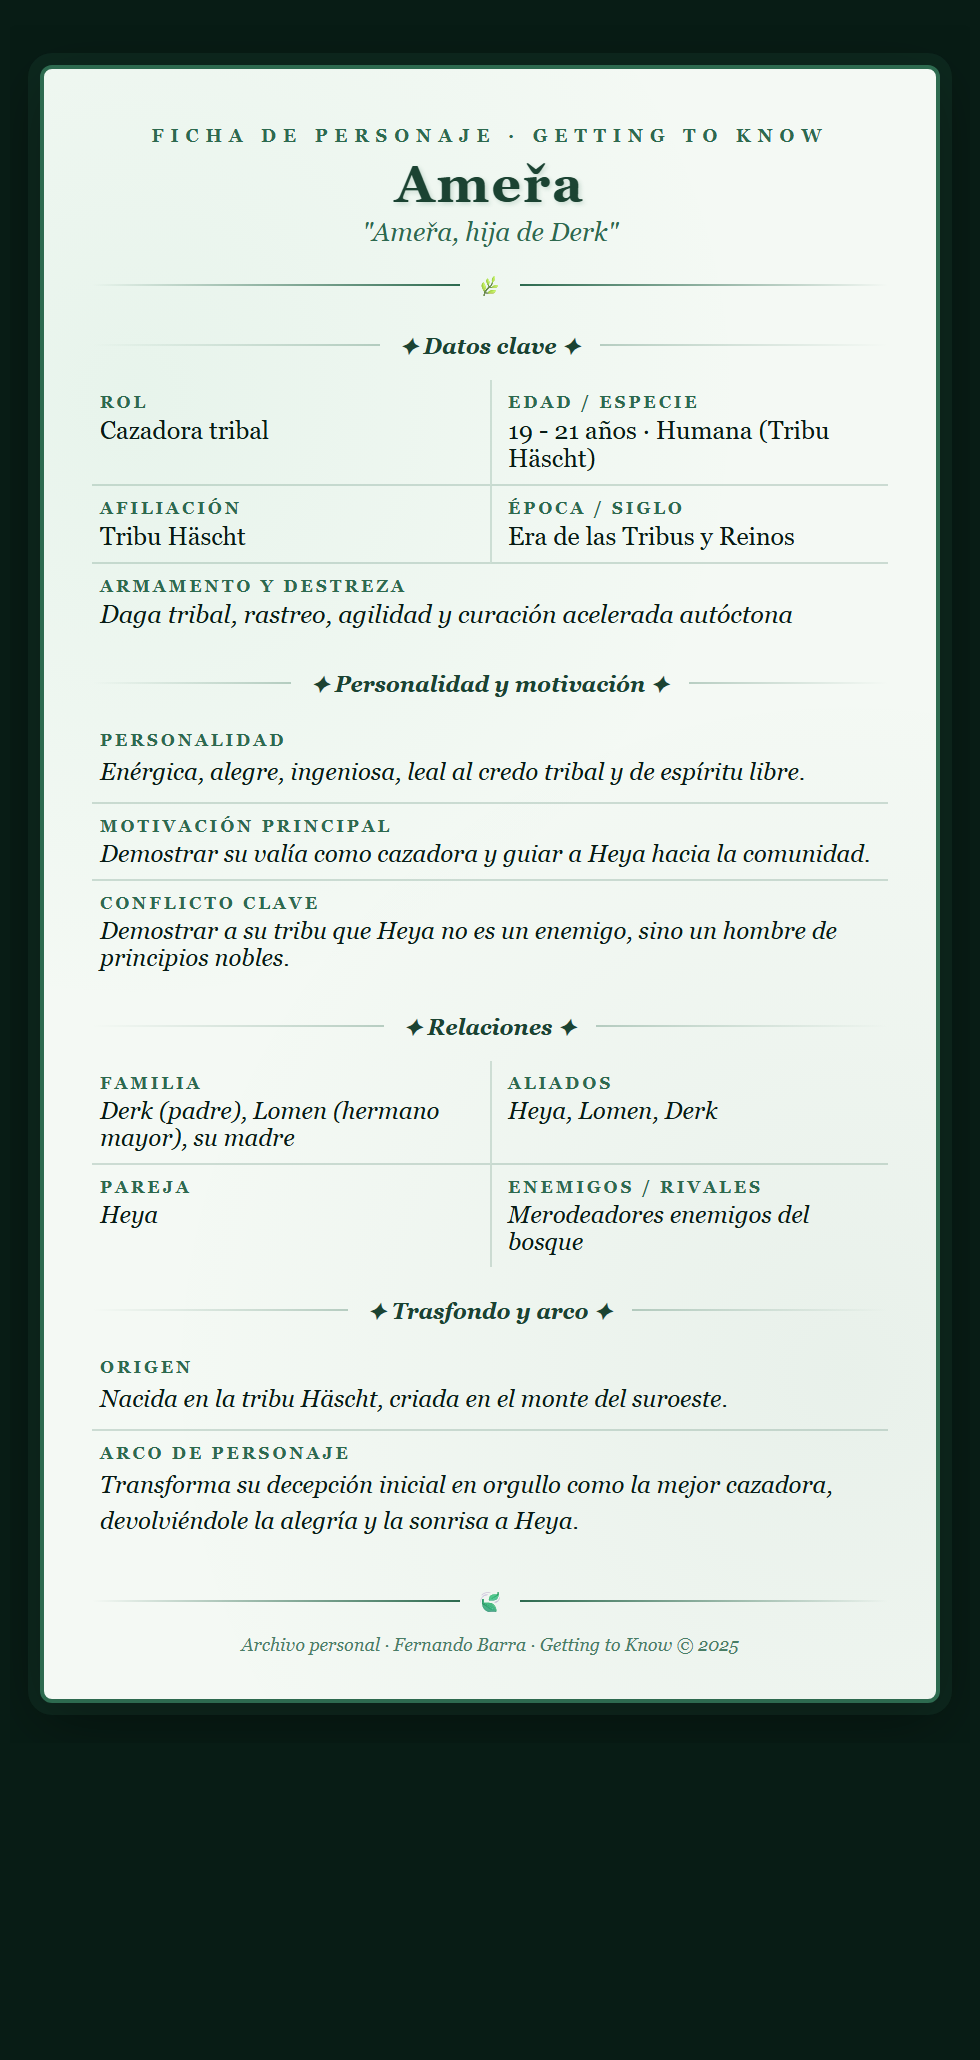
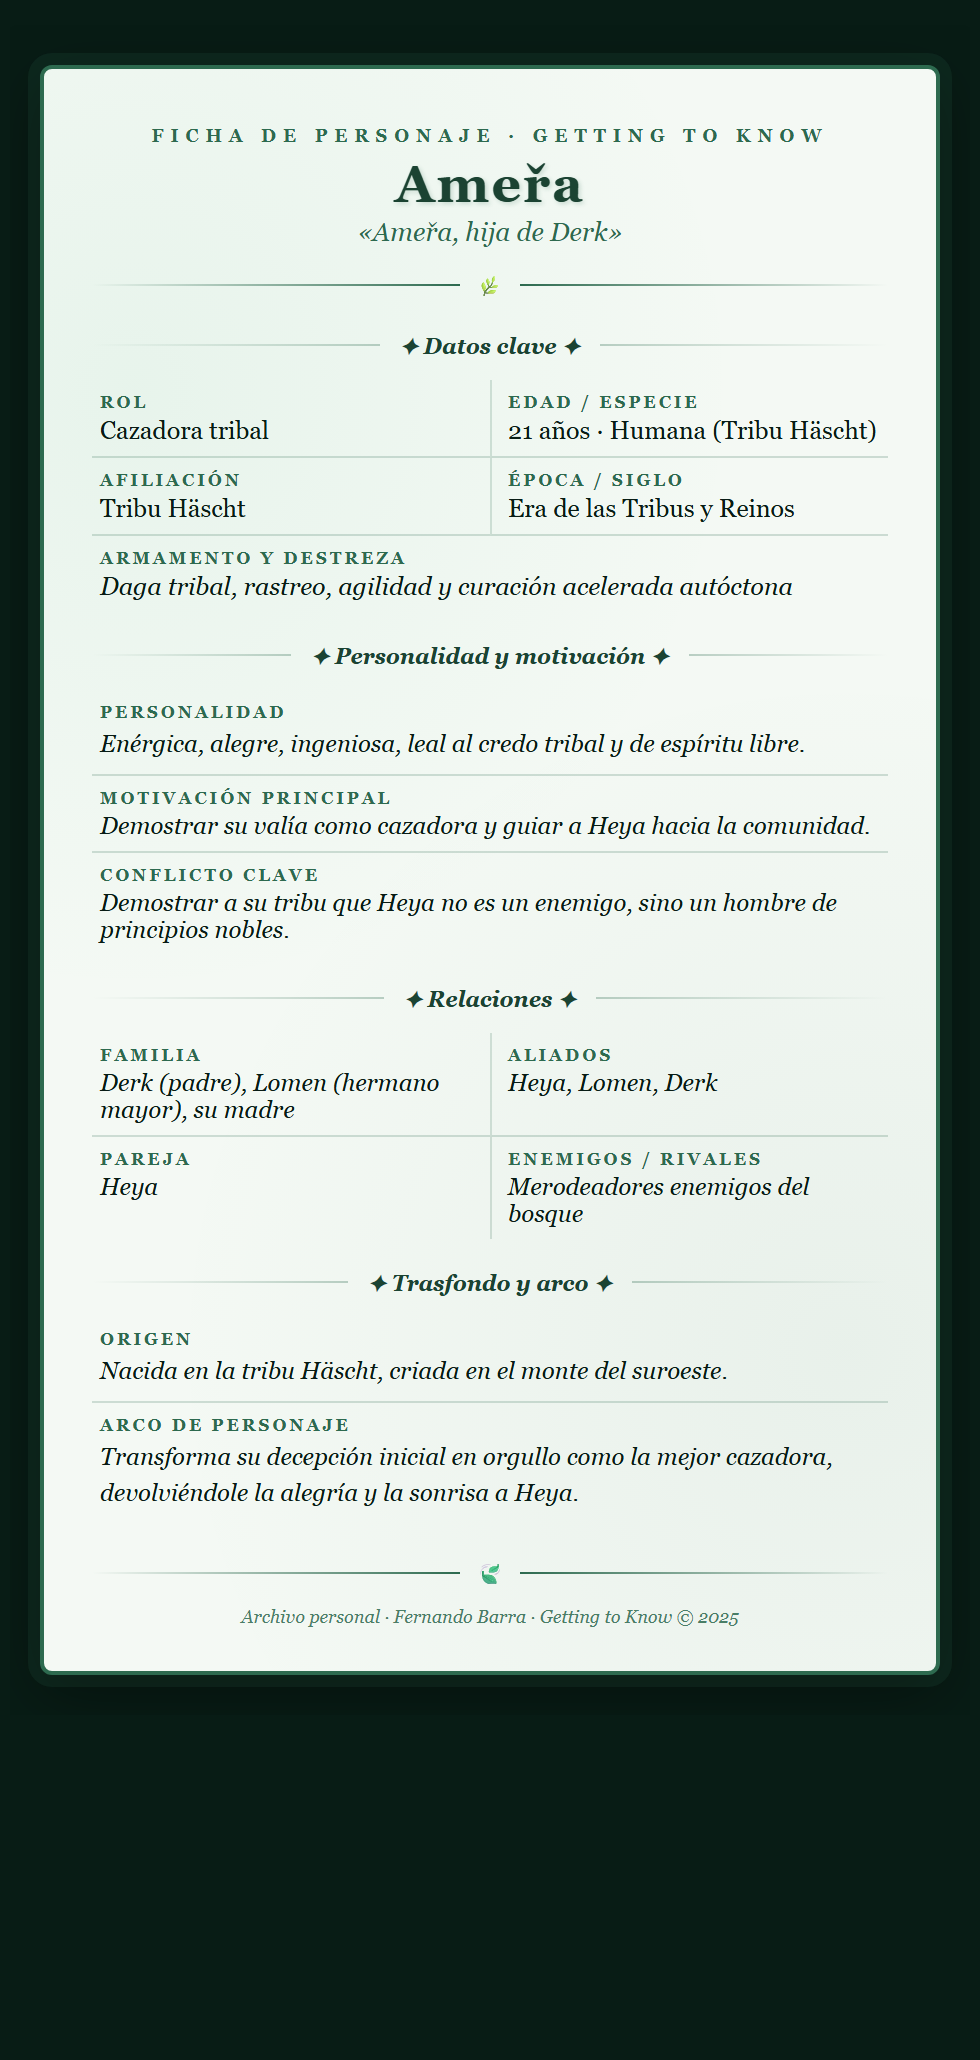
Reemplazar comillas inglesas por comillas angulares «» en fichas y galeria

Changed region(s): [[0.0306, 0.1864, 0.9796, 0.8388]]

diff --git a/index.html b/index.html
@@ -85,7 +85,7 @@
                 <div class="tarjeta-item">
                     <span style="font-size:10px; color:#74c69d; letter-spacing:2.5px; text-transform:uppercase; display:block; margin-bottom:8px; font-weight:bold;">PROTAGONISTA</span>
                     <h3 style="margin:0 0 4px 0; font-size:22px; color:#f4f9f4; font-weight:bold;">Heya</h3>
-                    <p style="margin:0 0 10px 0; font-size:13px; font-style:italic; color:#d8f3dc;">"El Guarda"</p>
+                    <p style="margin:0 0 10px 0; font-size:13px; font-style:italic; color:#d8f3dc;">«El Guarda»</p>
                     <p style="margin:0; font-size:13.5px; color:#b7e4c7; line-height:1.5;">Ex-guardia de frontera gricano y agricultor de corazón.</p>
                 </div>
             </a>
@@ -94,7 +94,7 @@
                 <div class="tarjeta-item">
                     <span style="font-size:10px; color:#74c69d; letter-spacing:2.5px; text-transform:uppercase; display:block; margin-bottom:8px; font-weight:bold;">HEROÍNA TRIBAL</span>
                     <h3 style="margin:0 0 4px 0; font-size:22px; color:#f4f9f4; font-weight:bold;">Ameřa</h3>
-                    <p style="margin:0 0 10px 0; font-size:13px; font-style:italic; color:#d8f3dc;">"Ameřa, hija de Derk"</p>
+                    <p style="margin:0 0 10px 0; font-size:13px; font-style:italic; color:#d8f3dc;">«Ameřa, hija de Derk»</p>
                     <p style="margin:0; font-size:13.5px; color:#b7e4c7; line-height:1.5;">Cazadora audaz de la tribu Häscht de ojos celestes.</p>
                 </div>
             </a>
@@ -103,7 +103,7 @@
                 <div class="tarjeta-item">
                     <span style="font-size:10px; color:#74c69d; letter-spacing:2.5px; text-transform:uppercase; display:block; margin-bottom:8px; font-weight:bold;">GUÍA ESPIRITUAL</span>
                     <h3 style="margin:0 0 4px 0; font-size:22px; color:#f4f9f4; font-weight:bold;">Hesis</h3>
-                    <p style="margin:0 0 10px 0; font-size:13px; font-style:italic; color:#d8f3dc;">"La hermanita"</p>
+                    <p style="margin:0 0 10px 0; font-size:13px; font-style:italic; color:#d8f3dc;">«La hermanita»</p>
                     <p style="margin:0; font-size:13.5px; color:#b7e4c7; line-height:1.5;">Voz de la conciencia y motivación en las visiones de Heya.</p>
                 </div>
             </a>
@@ -120,7 +120,7 @@
                 <div class="tarjeta-item">
                     <span style="font-size:10px; color:#74c69d; letter-spacing:2.5px; text-transform:uppercase; display:block; margin-bottom:8px; font-weight:bold;">PATRIARCA TRIBAL</span>
                     <h3 style="margin:0 0 4px 0; font-size:22px; color:#f4f9f4; font-weight:bold;">Derk</h3>
-                    <p style="margin:0 0 10px 0; font-size:13px; font-style:italic; color:#d8f3dc;">"Líder de los Häscht"</p>
+                    <p style="margin:0 0 10px 0; font-size:13px; font-style:italic; color:#d8f3dc;">«Líder de los Häscht»</p>
                     <p style="margin:0; font-size:13.5px; color:#b7e4c7; line-height:1.5;">Líder respetado de la tribu Häscht bajo el principio del mérito.</p>
                 </div>
             </a>

diff --git a/personajes/ficha-heya.html b/personajes/ficha-heya.html
@@ -63,7 +63,7 @@
             <p style="margin:0 0 4px 0; font-size:9px; letter-spacing:3.5px; text-transform:uppercase; color:#2d6a4f; font-weight:bold;">
                 Ficha de Personaje · Getting to Know</p>
             <h1 class="titulo-personaje">Heya</h1>
-            <p style="margin:2px 0 0 0; font-size:13px; font-style:italic; color:#2d6a4f;">"El Guarda" (Significa "Soldado")</p>
+            <p style="margin:2px 0 0 0; font-size:13px; font-style:italic; color:#2d6a4f;">«El Guarda» (Significa «Soldado»)</p>
         </div>
 
         <!-- ORNAMENTO VERDE SUPERIOR -->
@@ -83,12 +83,12 @@
         <div style="display:grid; grid-template-columns:1fr 1fr; gap:0;">
             <div style="padding:6px 8px 6px 4px; border-bottom:1px solid rgba(45,106,79,0.2);">
                 <div style="font-size:8.5px; letter-spacing:1.5px; text-transform:uppercase; color:#2d6a4f; font-weight:bold; margin-bottom:2px;">Rol</div>
-                <div style="font-size:12.5px; color:#081c15;">Ex-guardia de frontera / Agricultor</div>
+                <div style="font-size:12.5px; color:#081c15;">Exguardia de frontera / Agricultor</div>
             </div>
 
             <div style="padding:6px 4px 6px 8px; border-bottom:1px solid rgba(45,106,79,0.2); border-left:1px solid rgba(45,106,79,0.18);">
                 <div style="font-size:8.5px; letter-spacing:1.5px; text-transform:uppercase; color:#2d6a4f; font-weight:bold; margin-bottom:2px;">Edad / Especie</div>
-                <div style="font-size:12.5px; color:#081c15;">23 - 25 años · Humano</div>
+                <div style="font-size:12.5px; color:#081c15;">23 años · Humano</div>
             </div>
 
             <div style="padding:6px 8px 6px 4px; border-bottom:1px solid rgba(45,106,79,0.2);">

diff --git a/personajes/ficha-amera.html b/personajes/ficha-amera.html
@@ -63,7 +63,7 @@
             <p style="margin:0 0 4px 0; font-size:9px; letter-spacing:3.5px; text-transform:uppercase; color:#2d6a4f; font-weight:bold;">
                 Ficha de Personaje · Getting to Know</p>
             <h1 class="titulo-personaje">Ameřa</h1>
-            <p style="margin:2px 0 0 0; font-size:13px; font-style:italic; color:#2d6a4f;">"Ameřa, hija de Derk"</p>
+            <p style="margin:2px 0 0 0; font-size:13px; font-style:italic; color:#2d6a4f;">«Ameřa, hija de Derk»</p>
         </div>
 
         <!-- ORNAMENTO VERDE SUPERIOR -->
@@ -88,7 +88,7 @@
 
             <div style="padding:6px 4px 6px 8px; border-bottom:1px solid rgba(45,106,79,0.2); border-left:1px solid rgba(45,106,79,0.18);">
                 <div style="font-size:8.5px; letter-spacing:1.5px; text-transform:uppercase; color:#2d6a4f; font-weight:bold; margin-bottom:2px;">Edad / Especie</div>
-                <div style="font-size:12.5px; color:#081c15;">19 - 21 años · Humana (Tribu Häscht)</div>
+                <div style="font-size:12.5px; color:#081c15;">21 años · Humana (Tribu Häscht)</div>
             </div>
 
             <div style="padding:6px 8px 6px 4px; border-bottom:1px solid rgba(45,106,79,0.2);">

diff --git a/personajes/ficha-derk.html b/personajes/ficha-derk.html
@@ -63,7 +63,7 @@
             <p style="margin:0 0 4px 0; font-size:9px; letter-spacing:3.5px; text-transform:uppercase; color:#2d6a4f; font-weight:bold;">
                 Ficha de Personaje · Getting to Know</p>
             <h1 class="titulo-personaje">Derk</h1>
-            <p style="margin:2px 0 0 0; font-size:13px; font-style:italic; color:#2d6a4f;">"Líder de los Häscht"</p>
+            <p style="margin:2px 0 0 0; font-size:13px; font-style:italic; color:#2d6a4f;">«Líder de los Häscht»</p>
         </div>
 
         <!-- ORNAMENTO VERDE SUPERIOR -->
@@ -88,7 +88,7 @@
 
             <div style="padding:6px 4px 6px 8px; border-bottom:1px solid rgba(45,106,79,0.2); border-left:1px solid rgba(45,106,79,0.18);">
                 <div style="font-size:8.5px; letter-spacing:1.5px; text-transform:uppercase; color:#2d6a4f; font-weight:bold; margin-bottom:2px;">Edad / Especie</div>
-                <div style="font-size:12.5px; color:#081c15;">50 - 54 años · Humano (Tribu Häscht)</div>
+                <div style="font-size:12.5px; color:#081c15;">54 años · Humano (Tribu Häscht)</div>
             </div>
 
             <div style="padding:6px 8px 6px 4px; border-bottom:1px solid rgba(45,106,79,0.2);">

diff --git a/personajes/ficha-lomen.html b/personajes/ficha-lomen.html
@@ -88,7 +88,7 @@
 
             <div style="padding:6px 4px 6px 8px; border-bottom:1px solid rgba(45,106,79,0.2); border-left:1px solid rgba(45,106,79,0.18);">
                 <div style="font-size:8.5px; letter-spacing:1.5px; text-transform:uppercase; color:#2d6a4f; font-weight:bold; margin-bottom:2px;">Edad / Especie</div>
-                <div style="font-size:12.5px; color:#081c15;">24 - 26 años · Humano (Tribu Häscht)</div>
+                <div style="font-size:12.5px; color:#081c15;">25 años · Humano (Tribu Häscht)</div>
             </div>
 
             <div style="padding:6px 8px 6px 4px; border-bottom:1px solid rgba(45,106,79,0.2);">

diff --git a/personajes/ficha-hesis.html b/personajes/ficha-hesis.html
@@ -63,7 +63,7 @@
             <p style="margin:0 0 4px 0; font-size:9px; letter-spacing:3.5px; text-transform:uppercase; color:#2d6a4f; font-weight:bold;">
                 Ficha de Personaje · Getting to Know</p>
             <h1 class="titulo-personaje">Hesis</h1>
-            <p style="margin:2px 0 0 0; font-size:13px; font-style:italic; color:#2d6a4f;">"La hermanita"</p>
+            <p style="margin:2px 0 0 0; font-size:13px; font-style:italic; color:#2d6a4f;">«La hermanita»</p>
         </div>
 
         <!-- ORNAMENTO VERDE SUPERIOR -->

diff --git a/fichas_markdown/TODAS_LAS_FICHAS.md b/fichas_markdown/TODAS_LAS_FICHAS.md
@@ -1,7 +1,7 @@
 # Colección Oficial de Fichas de Personajes - Getting to Know
 
 # Heya
-*"El Guarda" (Significa "Soldado")*
+*«El Guarda» (Significa «Soldado»)*
 
 ## 🍃 Datos clave
 * **Rol:** Ex-guardia de frontera / Agricultor
@@ -34,7 +34,7 @@
 ==================================================
 
 # Ameřa
-*"Ameřa, hija de Derk"*
+*«Ameřa, hija de Derk»*
 
 ## 🍃 Datos clave
 * **Rol:** Cazadora tribal
@@ -67,7 +67,7 @@
 ==================================================
 
 # Hesis
-*"La hermanita"*
+*«La hermanita»*
 
 ## 🍃 Datos clave
 * **Rol:** Guía espiritual / Recuerdo viviente
@@ -131,7 +131,7 @@
 ==================================================
 
 # Derk
-*"Líder de los Häscht"*
+*«Líder de los Häscht»*
 
 ## 🍃 Datos clave
 * **Rol:** Patriarca / Líder tribal

diff --git a/fichas_markdown/ficha-heya.md b/fichas_markdown/ficha-heya.md
@@ -1,5 +1,5 @@
 # Heya
-*"El Guarda" (Significa "Soldado")*
+*«El Guarda» (Significa «Soldado»)*
 
 ## 🍃 Datos clave
 * **Rol:** Ex-guardia de frontera / Agricultor

diff --git a/fichas_markdown/ficha-derk.md b/fichas_markdown/ficha-derk.md
@@ -1,5 +1,5 @@
 # Derk
-*"Líder de los Häscht"*
+*«Líder de los Häscht»*
 
 ## 🍃 Datos clave
 * **Rol:** Patriarca / Líder tribal

diff --git a/fichas_markdown/ficha-hesis.md b/fichas_markdown/ficha-hesis.md
@@ -1,5 +1,5 @@
 # Hesis
-*"La hermanita"*
+*«La hermanita»*
 
 ## 🍃 Datos clave
 * **Rol:** Guía espiritual / Recuerdo viviente

diff --git a/fichas_markdown/ficha-amera.md b/fichas_markdown/ficha-amera.md
@@ -1,5 +1,5 @@
 # Ameřa
-*"Ameřa, hija de Derk"*
+*«Ameřa, hija de Derk»*
 
 ## 🍃 Datos clave
 * **Rol:** Cazadora tribal
